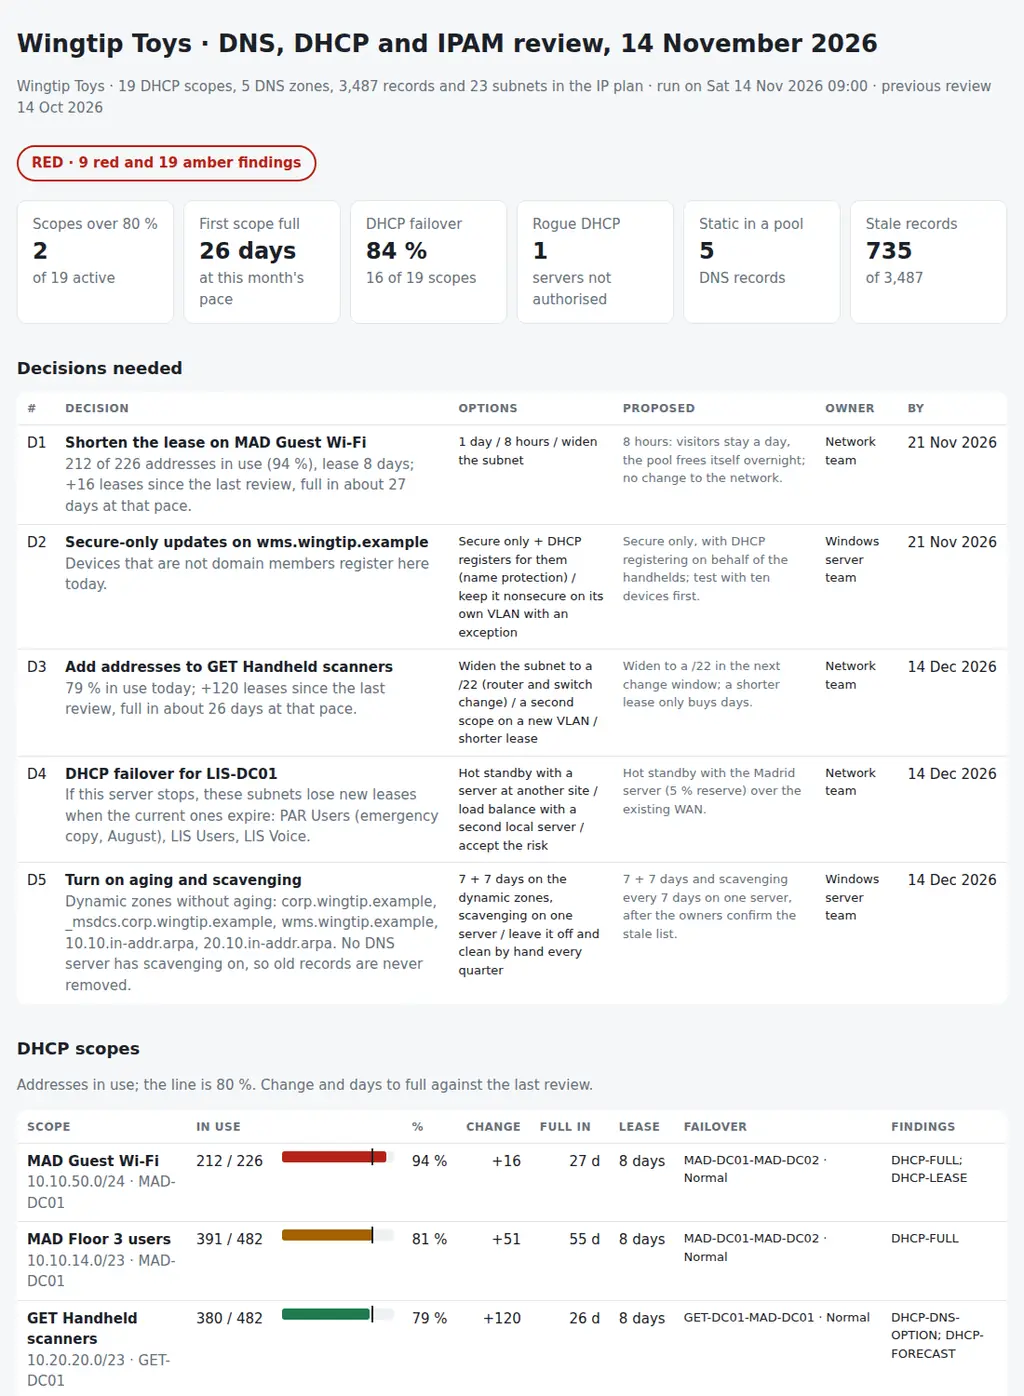
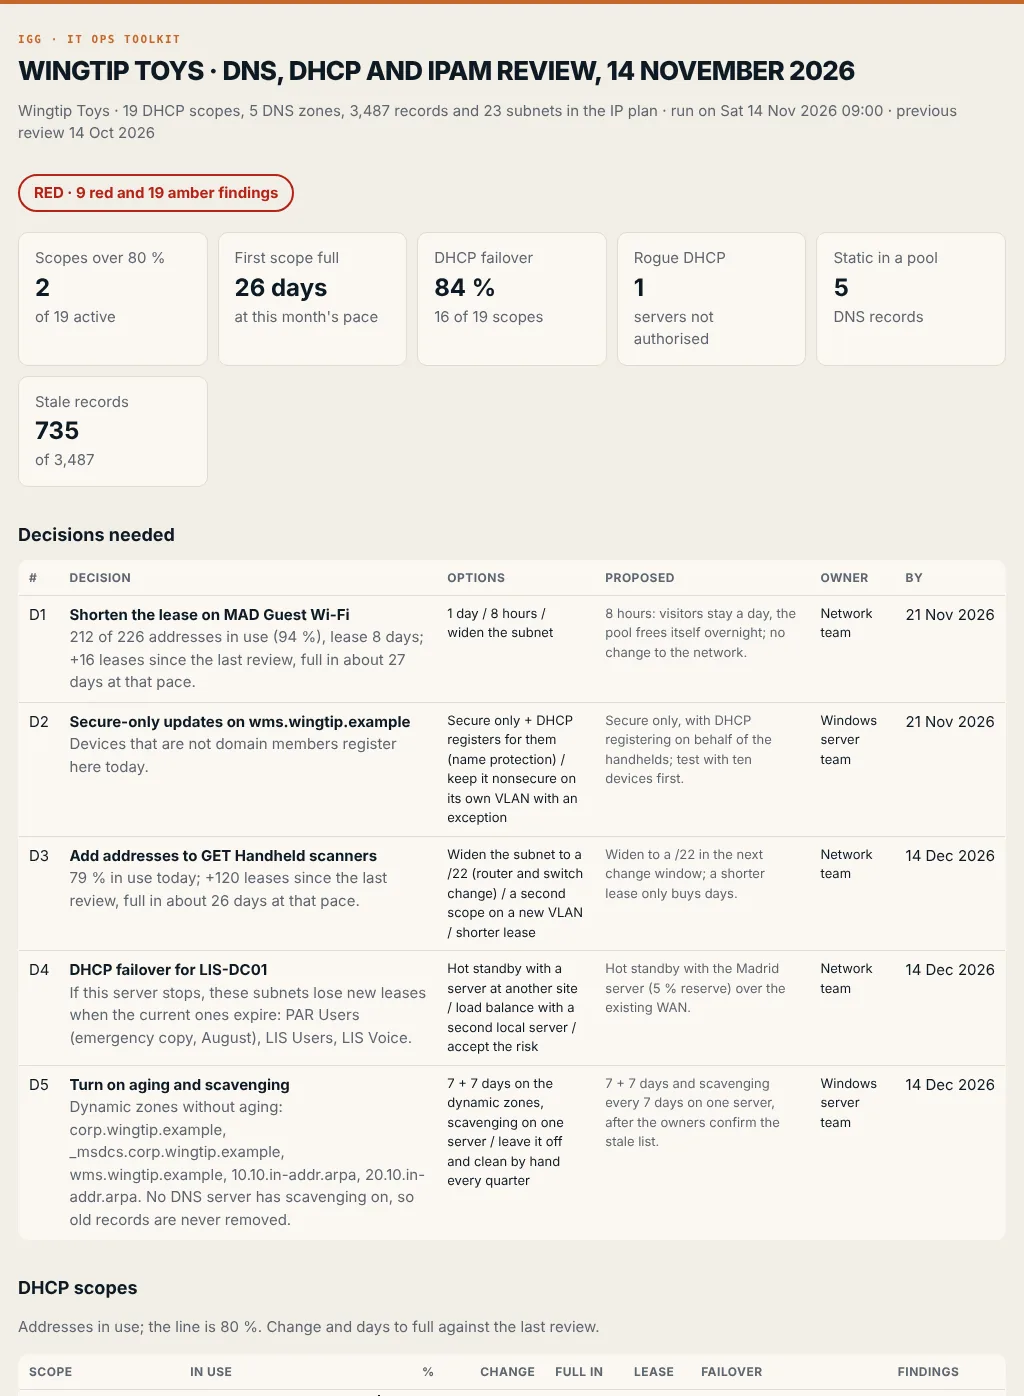
Report: IGG colours (paper, ink and the orange accent) and a new screenshot

diff --git a/dnsdhcpreview/report.py b/dnsdhcpreview/report.py
@@ -223,11 +223,11 @@ def pack_md(d: Data, rv: dict, title: str) -> str:
 # ---------------------------------------------------------------- html
 
 CSS = """
-:root{--bg:#f6f7f8;--card:#fff;--ink:#1b2128;--muted:#66717c;--line:#e2e5e9;--ok:#1e7a4c;--warn:#a46200;--bad:#b42318;--info:#0b6bcb;
---g:#cfeedd;--a:#fbe6bd;--r:#f8d2cd;--n:#eef0f2}
-@media (prefers-color-scheme:dark){:root{--bg:#13171b;--card:#1b2127;--ink:#e7eaee;--muted:#9aa5b0;--line:#2b333b;--ok:#4cc38a;--warn:#f0a83a;
---bad:#f2685c;--info:#5aa9f0;--g:#173527;--a:#3d2f12;--r:#45201d;--n:#232a31}}
-*{box-sizing:border-box}body{margin:0;background:var(--bg);color:var(--ink);font:15px/1.5 system-ui,-apple-system,Segoe UI,sans-serif}
+:root{--bg:#f2eee6;--card:#fbf8f3;--ink:#0e1a24;--muted:#5d6670;--line:#e2dccf;--ok:#1e7a4c;--warn:#a46200;--bad:#b42318;--info:#1f5f8b;
+--g:#cfeedd;--a:#fbe6bd;--r:#f8d2cd;--n:#e8e2d6}
+@media (prefers-color-scheme:dark){:root{--bg:#0e1a24;--card:#142331;--ink:#f2eee6;--muted:#a9b3bb;--line:#24364a;--ok:#4cc38a;--warn:#f0a83a;
+--bad:#f2685c;--info:#5aa9f0;--g:#173527;--a:#3d2f12;--r:#45201d;--n:#1b2b3b}}
+*{box-sizing:border-box}body{border-top:4px solid #c4672b}h1{font-weight:800;letter-spacing:-.025em;text-transform:uppercase;line-height:1.05}h1::before{content:"IGG · IT Ops toolkit";display:block;font:600 11px/1.4 ui-monospace,SFMono-Regular,Menlo,monospace;letter-spacing:.14em;text-transform:uppercase;color:#c4672b;margin-bottom:10px}body{margin:0;background:var(--bg);color:var(--ink);font:15px/1.5 system-ui,-apple-system,Segoe UI,sans-serif}
 main{max-width:1100px;margin:0 auto;padding:28px 18px 60px}h1{font-size:26px;margin:0 0 4px}h2{font-size:18px;margin:34px 0 12px}
 .muted{color:var(--muted)}.tiles{display:grid;grid-template-columns:repeat(auto-fit,minmax(160px,1fr));gap:10px;margin-top:20px}
 .tile{background:var(--card);border:1px solid var(--line);border-radius:10px;padding:14px 16px}.tile b{display:block;font-size:24px}
